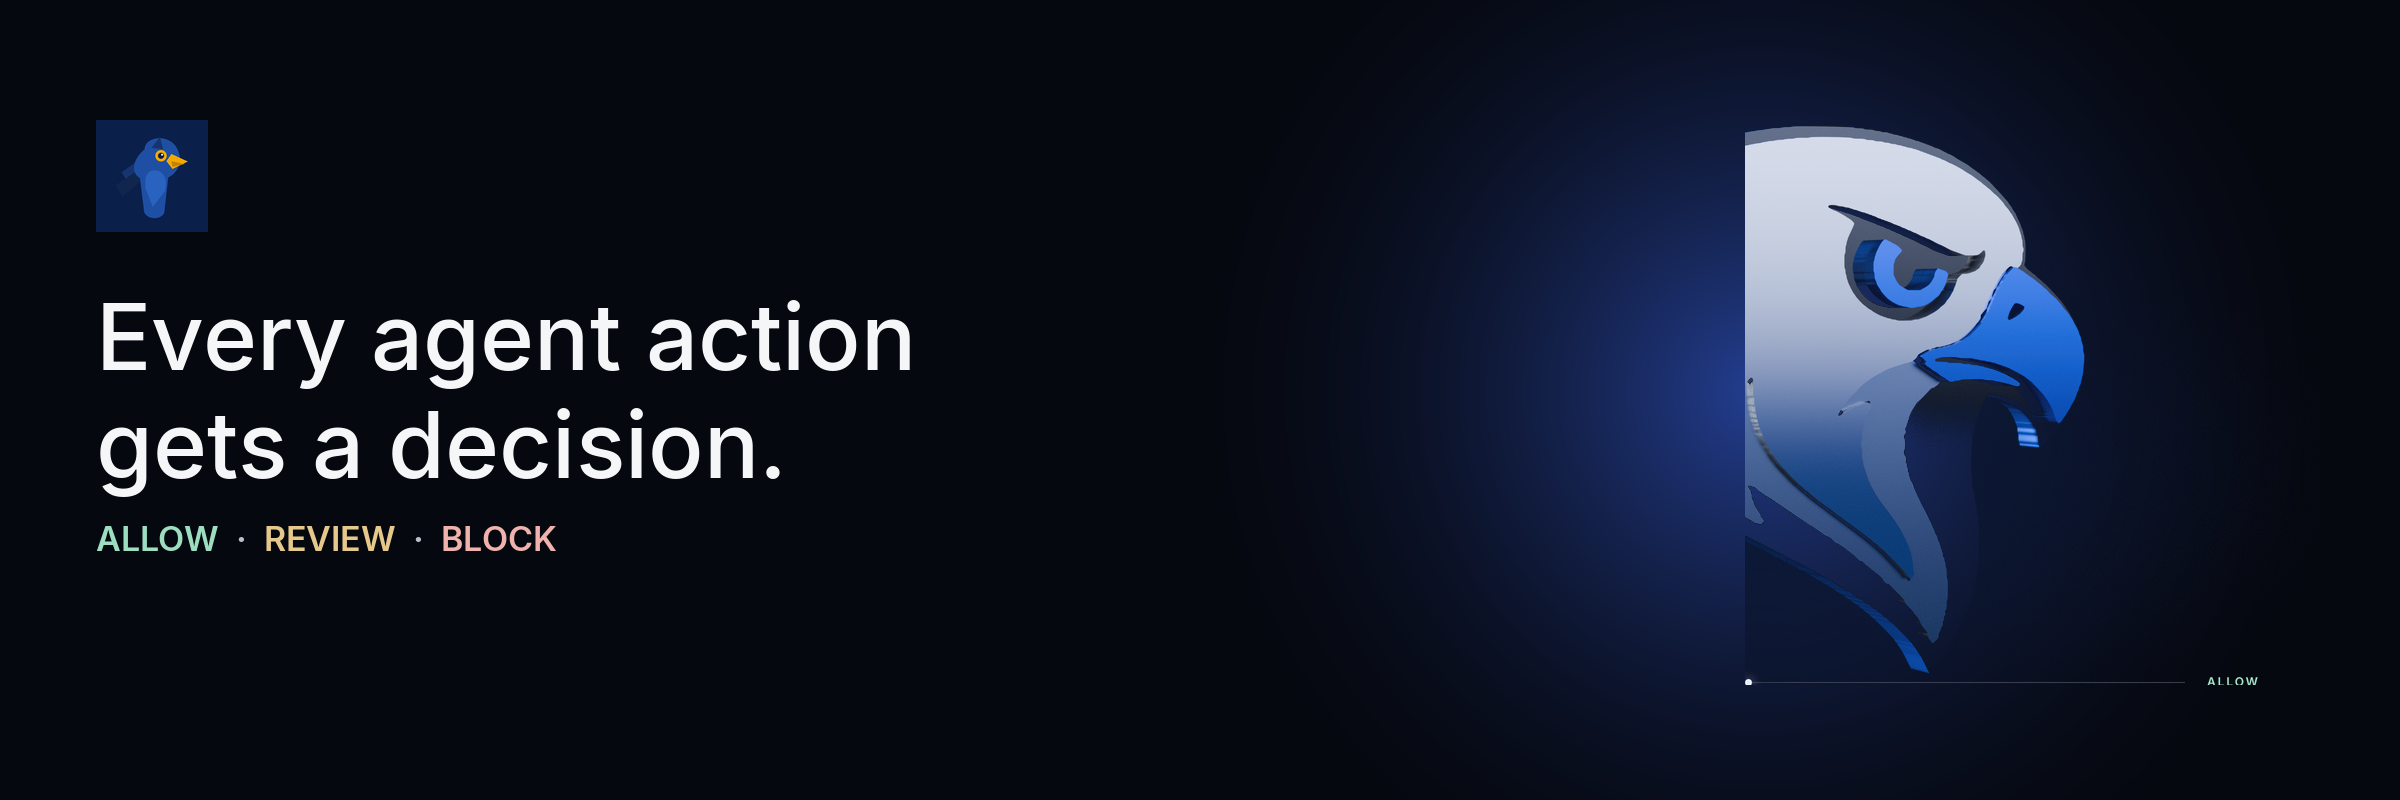
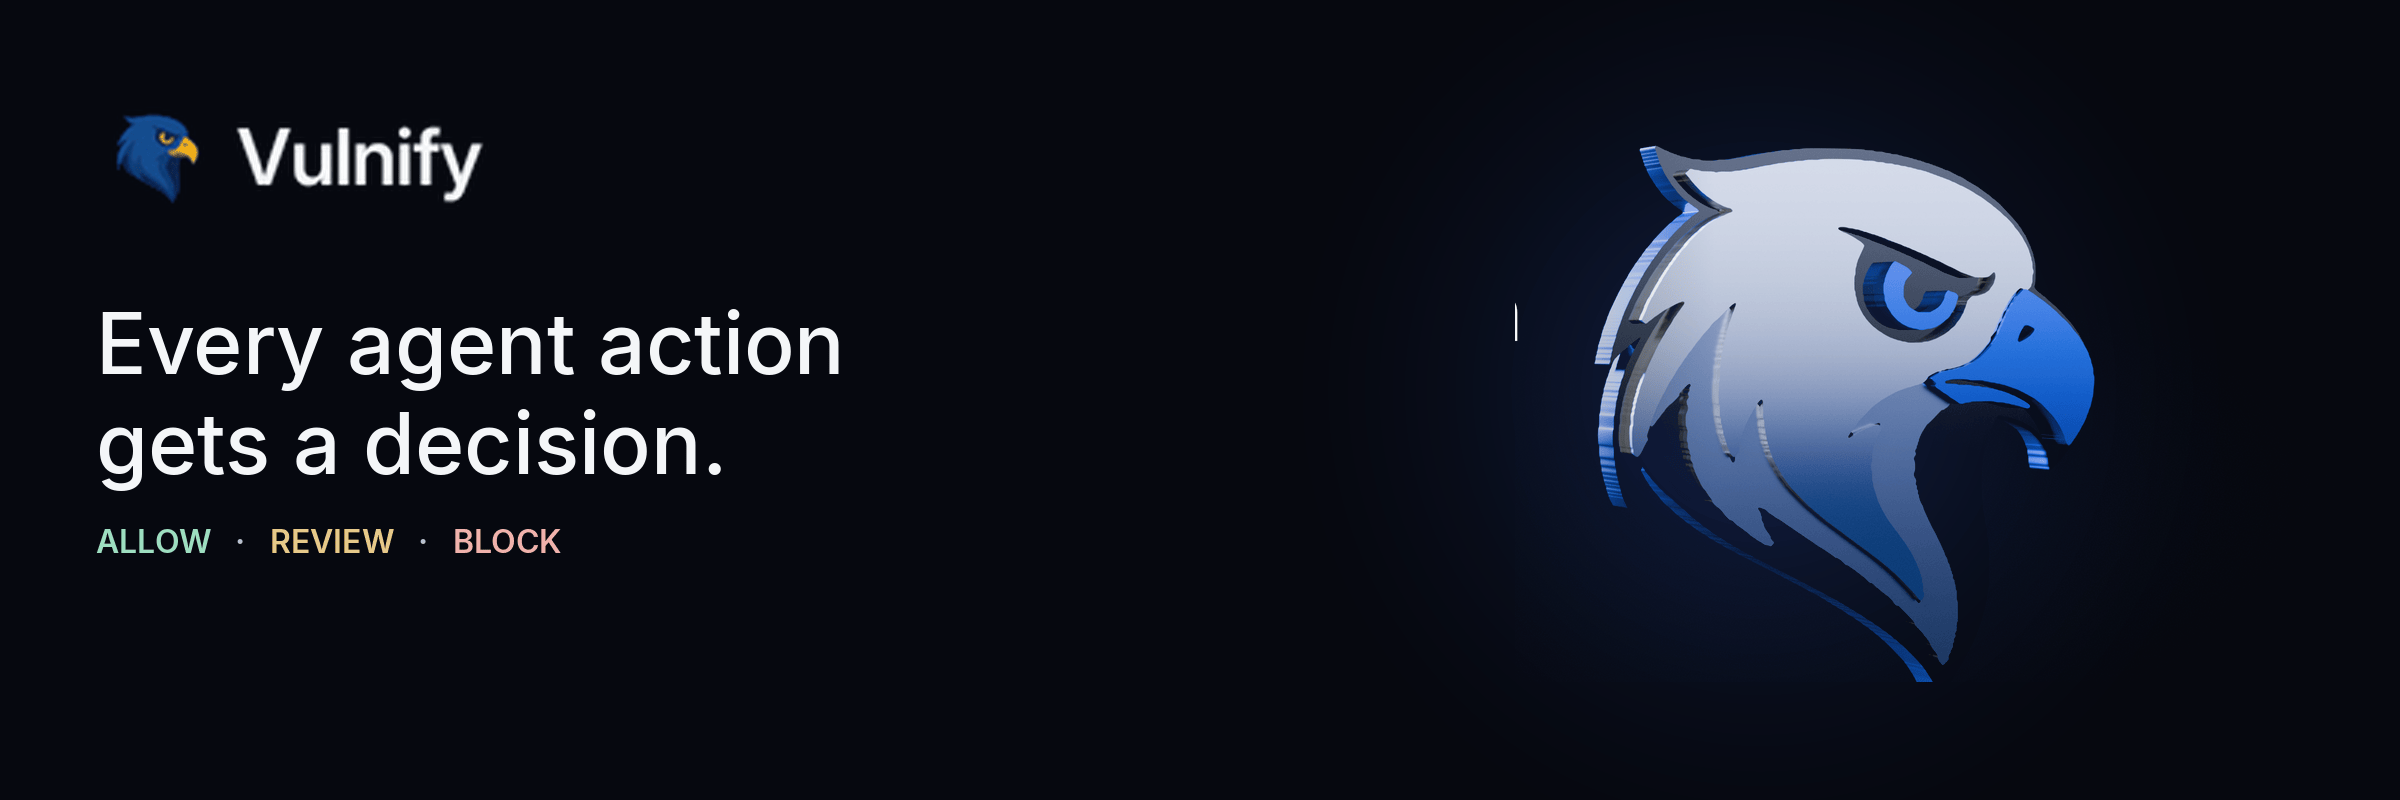
Release 0.1.2.
docs: hosted server is live, link docs.vulnify.io/mcp. The banner shows the whole chrome falcon, the allow screenshot no longer has a cursor, and the audit shot is gone.

diff --git a/src/http.spec.ts b/src/http.spec.ts
@@ -79,7 +79,7 @@ describe('HTTP server', () => {
     assert.equal(health.status, 200);
     const body = (await health.json()) as { ok: boolean; version: string };
     assert.equal(body.ok, true);
-    assert.equal(body.version, '0.1.1');
+    assert.equal(body.version, '0.1.2');
     const card = await fetch(`${base}/.well-known/mcp/server-card.json`);
     assert.equal(card.status, 200);
     const cardBody = (await card.json()) as { transport: { url: string } };

diff --git a/src/constants.ts b/src/constants.ts
@@ -1,4 +1,4 @@
-export const VERSION = '0.1.1';
+export const VERSION = '0.1.2';
 export const SERVER_NAME = 'io.vulnify/mcp';
 export const SERVER_TITLE = 'Vulnify';
 export const DEFAULT_BASE_URL = 'https://api.vulnify.io';

diff --git a/README.md b/README.md
@@ -136,11 +136,7 @@ API-key IP allowlists are checked against the hosted server's egress IP when usi
 
 ## Product
 
-Screenshots are from a demo workspace. The agent in the decision card is `SupportBot`.
-
-<p align="center">
-  <img src="https://raw.githubusercontent.com/vulnify/vulnify-mcp/main/.github/assets/audit-logs.png" alt="Audit chain check. Entries are append-only and chained with SHA-256. The chain is intact." width="800" />
-</p>
+The screenshot is from a demo workspace. The agent is `SupportBot`.
 
 <p align="center">
   <img src="https://raw.githubusercontent.com/vulnify/vulnify-mcp/main/.github/assets/allow-detail.png" alt="An allowed read: SupportBot, one record, internal destination, low risk." width="800" />

diff --git a/CHANGELOG.md b/CHANGELOG.md
@@ -1,5 +1,13 @@
 # Changelog
 
+## 0.1.2
+
+docs: hosted server is live, link docs.vulnify.io/mcp
+
+- `https://mcp.vulnify.io/mcp` is the hosted server. The README and client docs no longer say it is not deployed.
+- The docs link and the quickstart point at https://docs.vulnify.io/mcp/.
+- The README banner shows the whole chrome falcon. The audit screenshot was removed because a cursor covered the button text.
+
 ## 0.1.1
 
 docs: README refresh
